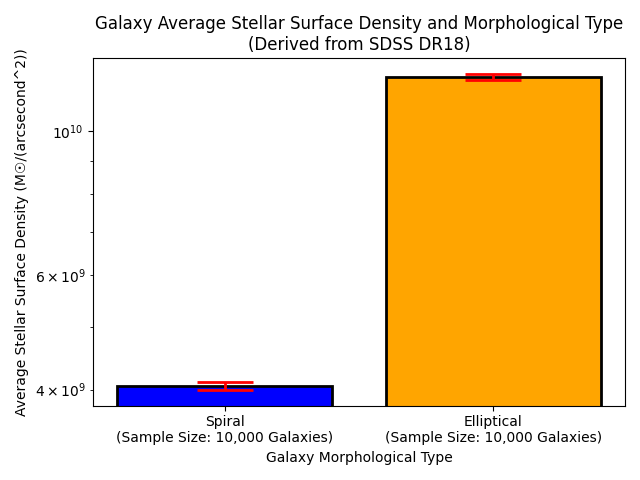
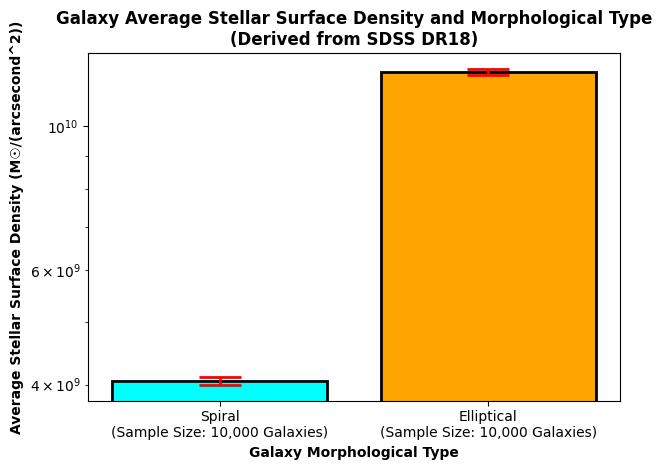
Added additional functions for data analysis.
After successfully making a function for analyzing the average stellar surface density between spiral and elliptical galaxies, I added additional capabilities for better understanding of the result. I made a function to analyze  the stellar mass and radius compared to the galaxy type to see how much weight the two factors had on determining stellar surface density. I additionally graphed the stellar surface density of the two galaxy types over the redshift to see how age of galaxies determine the stellar surface density. I additionally printed some values to get exact numbers and calculated the p-value using t-tests for most of the functions. I plan to add a correlational test to the stellar surface density and redshift graph and may do further analysis on it.

Changed region(s): [[0.0, 0.0, 1.0, 0.983]]

diff --git a/SurfaceStellarDensityandGalaxyTypesResearch/dataAnalysis.py b/SurfaceStellarDensityandGalaxyTypesResearch/dataAnalysis.py
@@ -1,5 +1,6 @@
-import pandas as pd
 import math
+from scipy import stats
+import pandas as pd
 import numpy as np
 import matplotlib.pyplot as plt
 
@@ -30,7 +31,9 @@ ellipticalMedStelMass = np.power(10, ellipticalMedStelMassRaw)
 ellipticalDeVanRadRBand = ellipticalGalDataCSV['DeVancoulerGalRad_bandR_arcsec'].to_numpy()
 
 # Create galaxy morphology type array:
-galMorphTypeNames = ["Spiral\n(Sample Size: 10,000 Galaxies)", "Elliptical\n(Sample Size: 10,000 Galaxies)"]
+galMorphTypeNames1 = np.array(["Spiral\n(Sample Size: 10,000 Galaxies)", "Elliptical\n(Sample Size: 10,000 Galaxies)"])
+galMorphTypeNames2 = np.array(["Spiral (Sample Size: 10,000 Galaxies)", "Elliptical (Sample Size: 10,000 Galaxies)"])
+
 
 # Functions for data analysis:
 def stelSurfDen(stelMass, rad):
@@ -41,7 +44,12 @@ def stdError(data):
     # SE = σ / √(N)
     return ((np.std(data, ddof = 1)) / ((data.size)**0.5))
 
-def analyzeStelSurfDenandGalType(galTypeNames, stelMassSpiral, radSpiral, stelMassElliptical, radElliptical):
+def tTest(groups):
+    tStat, pVal = stats.ttest_ind(groups[0], groups[1])
+
+    return np.array([tStat, pVal])
+
+def analyzeAvgStelSurfDenandGalType(galTypeNames, stelMassSpiral, radSpiral, stelMassElliptical, radElliptical):
     # Spiral:
     stelSurfDenDataSpiral = stelSurfDen(stelMassSpiral, radSpiral)
     stelSurfDenAvgSpiral = np.mean(stelSurfDenDataSpiral)
@@ -53,28 +61,157 @@ def analyzeStelSurfDenandGalType(galTypeNames, stelMassSpiral, radSpiral, stelMa
     stelSurfDenErrorElliptical = stdError(stelSurfDenDataElliptical)
 
     # Group spiral and elliptical:
-    avgStelSurfDens = [stelSurfDenAvgSpiral, stelSurfDenAvgElliptical]
-    stelSurfDenErrors = [stelSurfDenErrorSpiral, stelSurfDenErrorElliptical]
+    stelSurfDenDataGrouped = np.array([stelSurfDenDataSpiral, stelSurfDenDataElliptical])
+    avgStelSurfDens = np.array([stelSurfDenAvgSpiral, stelSurfDenAvgElliptical])
+    stelSurfDenErrors = np.array([stelSurfDenErrorSpiral, stelSurfDenErrorElliptical])
+
+    # T-Test:
+    tResult = tTest(stelSurfDenDataGrouped)
 
     # Set up display parameters:
-    barGraphColors = ['blue', 'orange']
-    errorParams = {'ecolor': 'red', 'elinewidth': 2, 'capsize': 20, 'capthick': 2}
+    barGraphColors = ['cyan', 'orange']
+    errorParams = {'ecolor': 'red', 'elinewidth': 2, 'capsize': 15, 'capthick': 2}
 
-    # Display Data
+    # Display Data:
+    plt.clf()
     plt.figure()
     plt.bar(galTypeNames, avgStelSurfDens, yerr = stelSurfDenErrors, color = barGraphColors, edgecolor = 'black', linewidth = 2, error_kw = errorParams)
 
     plt.yscale('log')
-    plt.xlabel("Galaxy Morphological Type")
-    plt.ylabel("Average Stellar Surface Density (M☉/(arcsecond^2))")
-    plt.title("Galaxy Average Stellar Surface Density and Morphological Type\n(Derived from SDSS DR18)")
+    plt.xlabel("Galaxy Morphological Type", fontweight = 'bold')
+    plt.ylabel("Average Stellar Surface Density (M☉/(arcsecond^2))", fontweight = 'bold')
+    plt.title("Galaxy Average Stellar Surface Density and Morphological Type\n(Derived from SDSS DR18)", fontweight = 'bold')
 
     plt.tight_layout()
-    plt.savefig("Graphs/avgStelSurfDenandGalMorphType.png")
+    plt.savefig("Graphs/avgStelSurfDenandGalMorphType.png", bbox_inches= 'tight')
 
-    plt.show()
+    print(f"Average Stellar Surface Density (Spiral): {avgStelSurfDens[0]:.10}")
+    print(f"Average Stellar Surface Density (Elliptical): {avgStelSurfDens[1]:.10}")
+    print(f"T-Statistic: {tResult[0]:.10e}")
+    print(f"P-Value: {tResult[1]:.10e}")
+
+    return
+
+def analyzeAvgMedStelMassandGalType(galTypeNames, stelMassSpiral, stelMassElliptical):
+    # Spiral:
+    stelMassAvgSpiral = np.mean(stelMassSpiral)
+    stelMassErrorSpiral = stdError(stelMassSpiral)
+
+    # Elliptical:
+    stelMassAvgElliptical = np.mean(stelMassElliptical)
+    stelMassErrorElliptical = stdError(stelMassElliptical)
+
+    # Group spiral and elliptical:
+    stelMassDataGrouped = np.array([stelMassSpiral, stelMassElliptical])
+    avgStelMasses = np.array([stelMassAvgSpiral, stelMassAvgElliptical])
+    stelMassErrors = np.array([stelMassErrorSpiral, stelMassErrorElliptical])
+
+    # T-Test:
+    tResult = tTest(stelMassDataGrouped)
+
+    # Set up display parameters:
+    barGraphColors = ['cyan', 'orange']
+    errorParams = {'ecolor': 'red', 'elinewidth': 2, 'capsize': 15, 'capthick': 2}
+
+    # Display Data:
+    plt.clf()
+    plt.figure()
+    plt.bar(galTypeNames, avgStelMasses, yerr = stelMassErrors, color = barGraphColors, edgecolor = 'black', linewidth = 2, error_kw = errorParams)
+
+    plt.yscale('log')
+    plt.xlabel("Galaxy Morphological Type", fontweight = 'bold')
+    plt.ylabel("Average Stellar Median Mass (M☉)", fontweight = 'bold')
+    plt.title("Galaxy Average Stellar Median Mass and Morphological Type\n(Derived from SDSS DR18)", fontweight = 'bold')
+
+    plt.tight_layout()
+    plt.savefig("Graphs/avgStelMassandGalMorphType.png", bbox_inches= 'tight')
+
+    print(f"Average Stellar Median Mass (Spiral): {avgStelMasses[0]:.10}")
+    print(f"Average Stellar Median Mass (Elliptical): {avgStelMasses[1]:.10}")
+    print(f"T-Statistic: {tResult[0]:.10e}")
+    print(f"P-Value: {tResult[1]:.10e}")
+
+    return
+
+def analyzeAvgGalRadandGalType(galTypeNames, radSpiral, radElliptical):
+    # Spiral:
+    galRadAvgSpiral = np.mean(radSpiral)
+    galRadErrorSpiral = stdError(radSpiral)
+
+    # Elliptical:
+    galRadAvgElliptical = np.mean(radElliptical)
+    galRadErrorElliptical = stdError(radElliptical)
+
+    # Group spiral and elliptical:
+    galRadDataGrouped = np.array([radSpiral, radElliptical])
+    avgGalRads = np.array([galRadAvgSpiral, galRadAvgElliptical])
+    galRadErrors = np.array([galRadErrorSpiral, galRadErrorElliptical])
+
+    # T-Test:
+    tResult = tTest(galRadDataGrouped)
+
+    # Set up display parameters:
+    barGraphColors = ['cyan', 'orange']
+    errorParams = {'ecolor': 'red', 'elinewidth': 2, 'capsize': 15, 'capthick': 2}
+
+    # Display Data:
+    plt.clf()
+    plt.figure()
+    plt.bar(galTypeNames, avgGalRads, yerr = galRadErrors, color = barGraphColors, edgecolor = 'black', linewidth = 2, error_kw = errorParams)
+
+    plt.yscale('log')
+    plt.xlabel("Galaxy Morphological Type", fontweight = 'bold')
+    plt.ylabel("Average Galaxy Radius (arcsecond)", fontweight = 'bold')
+    plt.title("Galaxy Average Radius and Morphological Type\n(Derived from SDSS DR18)", fontweight = 'bold')
+
+    plt.tight_layout()
+    plt.savefig("Graphs/avgGalRadandGalMorphType.png", bbox_inches= 'tight')
+
+    print(f"Average Stellar Median Mass (Spiral): {avgGalRads[0]:.10}")
+    print(f"Average Stellar Median Mass (Elliptical): {avgGalRads[1]:.10}")
+    print(f"T-Statistic: {tResult[0]:.10e}")
+    print(f"P-Value: {tResult[1]:.10e}")
+
+    return
+
+def analyzeStelSurfDenandRedshift(galTypeNames, stelMassSpiral, radSpiral, zSpiral, stelMassElliptical, radElliptical, zElliptical):
+    # Spiral:
+    stelSurfDenDataSpiral = stelSurfDen(stelMassSpiral, radSpiral)
+
+    # Elliptical:
+    stelSurfDenDataElliptical = stelSurfDen(stelMassElliptical, radElliptical)
+
+    # Display Data:
+    plt.clf()
+    figStelSurfDenandZ, axStelSurfDenandZ = plt.subplots(1, 2, figsize = (15, 10), sharex = True, sharey = True)
+    axStelSurfDenandZ[0].scatter(zSpiral, stelSurfDenDataSpiral, color = 'cyan', s = 5)
+    axStelSurfDenandZ[1].scatter(zElliptical, stelSurfDenDataElliptical, color = 'orange', s = 5)
+
+    axStelSurfDenandZ[0].set_yscale('log')
+    axStelSurfDenandZ[0].set_xlabel("Galaxy Redshift (z)", fontweight = 'bold')
+    axStelSurfDenandZ[0].set_ylabel("Average Stellar Surface Density (M☉/(arcsecond^2))", fontweight = 'bold')
+    axStelSurfDenandZ[0].set_title(f"Morphological Type: {galTypeNames[0]}", fontweight = 'bold')
+
+    axStelSurfDenandZ[1].set_yscale('log')
+    axStelSurfDenandZ[1].set_xlabel("Galaxy Redshift (z)", fontweight = 'bold')
+    axStelSurfDenandZ[1].set_ylabel("Average Stellar Surface Density (M☉/(arcsecond^2))", fontweight = 'bold')
+    axStelSurfDenandZ[1].set_title(f"Morphological Type: {galTypeNames[1]}", fontweight = 'bold')
+    
+    figStelSurfDenandZ.suptitle("Galaxy Average Stellar Surface Density and Redshift\n(Derived from SDSS DR18)", fontweight = 'bold')
+
+    plt.savefig("Graphs/avgStelSurfDenandGalRedshift.png", bbox_inches= 'tight')
 
     return
 
 # Call function:
-analyzeStelSurfDenandGalType(galMorphTypeNames, spiralMedStelMass, spiralExpRadRBand, ellipticalMedStelMass, ellipticalDeVanRadRBand)
+print("Average Stellar Surface Density and Galaxy Type:")
+analyzeAvgStelSurfDenandGalType(galMorphTypeNames1, spiralMedStelMass, spiralExpRadRBand, ellipticalMedStelMass, ellipticalDeVanRadRBand)
+
+print("\nAverage Stellar Median Mass and Galaxy Type:")
+analyzeAvgMedStelMassandGalType(galMorphTypeNames1, spiralMedStelMass, ellipticalMedStelMass)
+
+print("\nAverage Galaxy Radius and Galaxy Type:")
+analyzeAvgGalRadandGalType(galMorphTypeNames1, spiralExpRadRBand, ellipticalDeVanRadRBand)
+
+print("\nStellar Surface Density and Redshift:")
+analyzeStelSurfDenandRedshift(galMorphTypeNames2, spiralMedStelMass, spiralExpRadRBand, spiralZ, ellipticalMedStelMass, ellipticalDeVanRadRBand, ellipticalZ)
